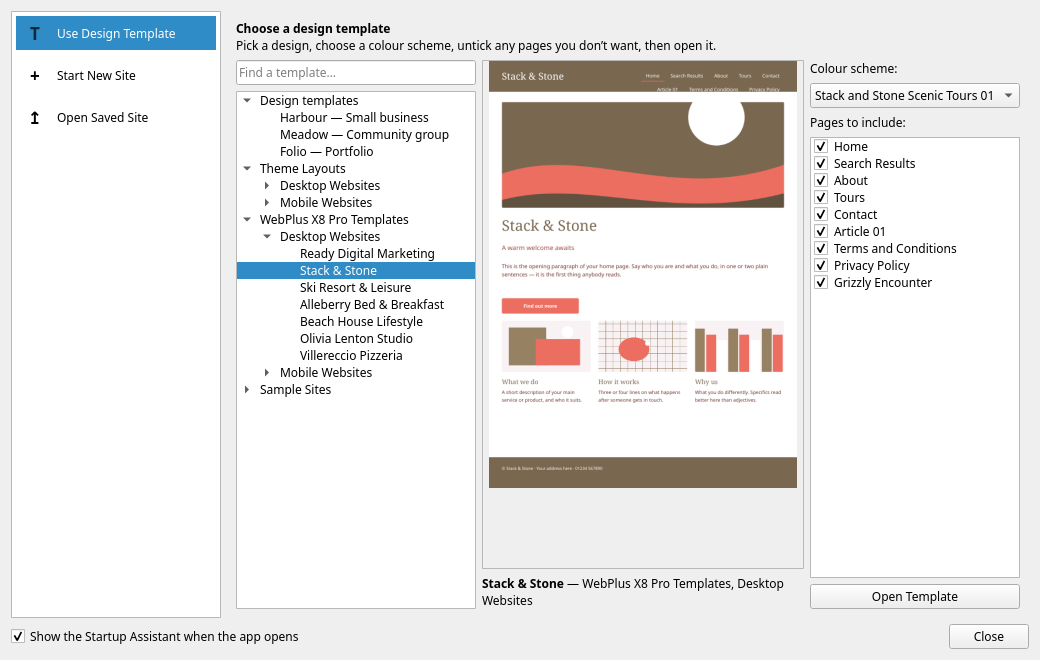
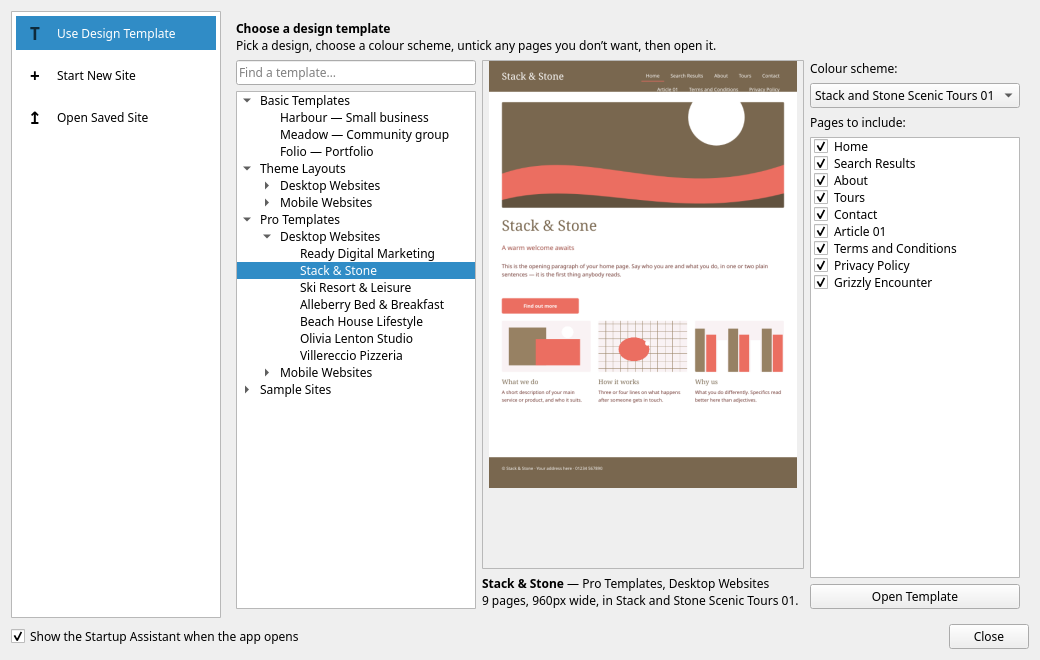
WEBcreator 1.7 — Basic Templates, Pro Templates, and the WebPlus command drops "Serif"
In the Startup Assistant's file list:

* "Design templates" is now **Basic Templates**;
* "WebPlus X8 Pro Templates" is now **Pro Templates**.

The catalogue still records the category name the disc used — the short name
is a display label (`CATEGORY_LABELS`), so the mined facts stay as mined and
the tooltip and caption use the same label as the tree.

The command that opens a .wpp is now "Open WebPlus Site…" everywhere it is
seen: the Startup Assistant button, File ▸ Open &WebPlus Site…, the file
dialog and its filter, and every message box title. The Serif-for-Linux
reader keeps its name, because that is what it is called.

Site rebuilt: the section heading and the chooser screenshot follow. All 92
template renders came out byte-identical, so no preview changed.

Changed region(s): [[0.4615, 0.8788, 0.7692, 0.9394], [0.2462, 0.303, 0.3692, 0.3636], [0.2462, 0.1212, 0.3385, 0.1818]]

diff --git a/docs/webcreator.html b/docs/webcreator.html
@@ -57,7 +57,7 @@ part that was worth recreating; the drawing is ours.</p>
 
 <div class="filter"><input id="q" type="search" placeholder="Filter 92 templates by name, page or colour scheme&hellip;" autocomplete="off"></div>
 <p class="none" id="none">Nothing matches that.</p>
-<h2 data-section="ours">Design templates <span class="mute small">(3)</span></h2><p class="mute small" data-section="ours">Three originals that ship with the app &mdash; a small business, a community group and a portfolio.</p><div class="grid" id="g-ours"><div class="tile" data-section="ours" data-find="harbour small business  home about us services contact">
+<h2 data-section="ours">Basic Templates <span class="mute small">(3)</span></h2><p class="mute small" data-section="ours">Three originals that ship with the app &mdash; a small business, a community group and a portfolio.</p><div class="grid" id="g-ours"><div class="tile" data-section="ours" data-find="harbour small business  home about us services contact">
 <img src="previews/ours-harbour.jpg" alt="Harbour home page" loading="lazy">
 <div class="body"><div class="name">Harbour</div>
 <div class="meta">Small business</div>
@@ -640,7 +640,7 @@ part that was worth recreating; the drawing is ours.</p>
 
 <footer>Built from the source in
 <a href="https://github.com/janszafranski/just-a-collection-of-apps">janszafranski/just-a-collection-of-apps</a>
-on 2026-11-11. Every template picture on this site is rendered
+on 2026-11-12. Every template picture on this site is rendered
 by the app itself.</footer>
 </div>
 </html>

diff --git a/docs/index.html b/docs/index.html
@@ -62,7 +62,7 @@ has an <code>uninstall.sh</code> beside its installer.</p>
 
 <footer>Built from the source in
 <a href="https://github.com/janszafranski/just-a-collection-of-apps">janszafranski/just-a-collection-of-apps</a>
-on 2026-11-11. Every template picture on this site is rendered
+on 2026-11-12. Every template picture on this site is rendered
 by the app itself.</footer>
 </div>
 </html>

diff --git a/apps/webcreator/webcreator.py b/apps/webcreator/webcreator.py
@@ -32,7 +32,7 @@ except ImportError:
 APP = "just a... WEBcreator"
 ORG = "justawebcreator"
 EXT = ".webc"
-VERSION = "1.6"
+VERSION = "1.7"
 
 # Where updates come from: a public GitHub repository holding a copy of this
 # file. UPDATE_PATH is where in that repository it sits — the top level if the
@@ -373,6 +373,13 @@ def serif_tree(chooser_only=True):
             surfaces.append((surf, []))
         surfaces[-1][1].append(row)
     return out
+
+#: What a catalogue category is called in the file list. The catalogue keeps
+#: the name the disc used; the chooser shows the short one.
+CATEGORY_LABELS = {'WebPlus X8 Pro Templates': 'Pro Templates'}
+
+def category_label(cat):
+    return CATEGORY_LABELS.get(cat, cat)
 
 def serif_row(key):
     return next((r for r in serif_catalogue().get('templates', []) if r.get('key') == key), None)
@@ -2959,8 +2966,8 @@ class StartupAssistant(QDialog):
         b1 = QPushButton('Open Selected'); b1.clicked.connect(lambda: self.open_recent(self.rlist.currentItem())); bh.addWidget(b1)
         b2 = QPushButton(ticon(['document-open-folder', 'folder-open'], ''), 'Browse…'); b2.clicked.connect(self.browse); bh.addWidget(b2)
         b3 = QPushButton(ticon(['document-import'], ''), 'Import Website Folder…'); b3.clicked.connect(self.import_site); bh.addWidget(b3)
-        b4 = QPushButton(ticon(['document-open', 'document-import'], ''), 'Open Serif WebPlus Site…')
-        b4.setToolTip('Open a Serif WebPlus .wpp publication as an editable site'); b4.clicked.connect(self.open_wpp)
+        b4 = QPushButton(ticon(['document-open', 'document-import'], ''), 'Open WebPlus Site…')
+        b4.setToolTip('Open a WebPlus .wpp publication as an editable site'); b4.clicked.connect(self.open_wpp)
         bh.addWidget(b4); bh.addStretch()
         self.stack.addWidget(op)
 
@@ -2989,13 +2996,13 @@ class StartupAssistant(QDialog):
     def build_template_tree(self):
         """The left-hand pane: our own designs, then Serif's own tree."""
         self.ttree.clear()
-        ours = QTreeWidgetItem(self.ttree, ['Design templates'])
+        ours = QTreeWidgetItem(self.ttree, ['Basic Templates'])
         for i, (name, kind, _fn) in enumerate(TEMPLATES):
             leaf = QTreeWidgetItem(ours, [f'{name} — {kind}'])
             leaf.setData(0, Qt.UserRole, ('ours', i))
         ours.setExpanded(True)
         for category, surfaces in serif_tree(chooser_only=False):
-            node = QTreeWidgetItem(self.ttree, [category])
+            node = QTreeWidgetItem(self.ttree, [category_label(category)])
             if not any(r.get('in_chooser') for _s, rows in surfaces for r in rows):
                 node.setToolTip(0, 'Sample documents. Serif catalogued these but '
                                    'never offered them as something to start from.')
@@ -3004,7 +3011,7 @@ class StartupAssistant(QDialog):
                 for r in rows:
                     leaf = QTreeWidgetItem(under, [r['name']])
                     leaf.setData(0, Qt.UserRole, ('serif', r['key']))
-                    leaf.setToolTip(0, f"{len(r['pages'])} pages · {r['category']}"
+                    leaf.setToolTip(0, f"{len(r['pages'])} pages · {category_label(r['category'])}"
                                        + (f" · {r['surface']}" if r['surface'] else ''))
             node.setExpanded(category == 'Theme Layouts')
         first = ours.child(0)
@@ -3067,7 +3074,7 @@ class StartupAssistant(QDialog):
         if what == 'serif':
             r = serif_row(which)
             self.tcap.setText(
-                f"<b>{H.escape(r['name'])}</b> — {H.escape(r['category'])}, "
+                f"<b>{H.escape(r['name'])}</b> — {H.escape(category_label(r['category']))}, "
                 f"{H.escape(r['surface'])}<br>{len(r['pages'])} pages, "
                 f"{s['width']}px wide, in {H.escape(scheme or '')}.")
         else:
@@ -3145,8 +3152,8 @@ class StartupAssistant(QDialog):
         root = self.win.webplus_root()
         if not root: return
         last = self.win.settings.value('wppDir', os.path.expanduser('~'))
-        path, _ = QFileDialog.getOpenFileName(self, 'Open Serif WebPlus Site', last,
-                                              f'Serif WebPlus publications (*{WPP_EXT});;All files (*)')
+        path, _ = QFileDialog.getOpenFileName(self, 'Open WebPlus Site', last,
+                                              f'WebPlus publications (*{WPP_EXT});;All files (*)')
         if not path: return
         self.win.settings.setValue('wppDir', os.path.dirname(path))
         self.result_webplus = (path, root); self.accept()
@@ -3322,9 +3329,9 @@ class MainWindow(QMainWindow):
         )
         self.a['delete'].setIconText('Delete')
         self.a['import'] = self.act('&Import Website Folder…', self.import_folder, 'Ctrl+Shift+I', ['document-import', 'folder-download'])
-        self.a['openwpp'] = self.act('Open Serif &WebPlus Site…', self.open_webplus, 'Ctrl+Shift+O',
+        self.a['openwpp'] = self.act('Open &WebPlus Site…', self.open_webplus, 'Ctrl+Shift+O',
                                      ['document-open', 'document-import'],
-                                     tip='Open a Serif WebPlus .wpp publication as an editable site')
+                                     tip='Open a WebPlus .wpp publication as an editable site')
         del self.a['import_']
         self.a['rulers'].setChecked(self.settings.value('rulers', True, type=bool))
         self.a['grid'].setChecked(self.show_grid); self.a['snap'].setChecked(self.snap_grid)
@@ -4840,7 +4847,7 @@ class MainWindow(QMainWindow):
         root = wpp_reader_root(self.settings.value('serifRoot', '') or None)
         if root or not ask: return root
         QMessageBox.information(
-            self, 'Open Serif WebPlus Site',
+            self, 'Open WebPlus Site',
             'Reading a WebPlus .wpp needs the Serif-for-Linux reader, which this app '
             "could not find.\n\nChoose the folder of the serif-linux checkout — the one "
             'that holds a “serif” folder with webplus.py in it.')
@@ -4849,7 +4856,7 @@ class MainWindow(QMainWindow):
         if not folder: return None
         root = wpp_reader_root(folder, only_hint=True)
         if not root:
-            QMessageBox.warning(self, 'Open Serif WebPlus Site',
+            QMessageBox.warning(self, 'Open WebPlus Site',
                                 f'{folder} does not hold serif/webplus.py, so it cannot read a .wpp.')
             return None
         self.settings.setValue('serifRoot', root)
@@ -4860,8 +4867,8 @@ class MainWindow(QMainWindow):
         root = self.webplus_root()
         if not root: return
         last = self.settings.value('wppDir', os.path.expanduser('~'))
-        path, _ = QFileDialog.getOpenFileName(self, 'Open Serif WebPlus Site', last,
-                                              f'Serif WebPlus publications (*{WPP_EXT});;All files (*)')
+        path, _ = QFileDialog.getOpenFileName(self, 'Open WebPlus Site', last,
+                                              f'WebPlus publications (*{WPP_EXT});;All files (*)')
         if not path: return
         self.settings.setValue('wppDir', os.path.dirname(path))
         return self.load_webplus(path, root)
@@ -4871,7 +4878,7 @@ class MainWindow(QMainWindow):
         if not root: return False
         from PySide6.QtWidgets import QProgressDialog
         pd = QProgressDialog('Reading the publication…', 'Cancel', 0, 100, self)
-        pd.setWindowTitle('Open Serif WebPlus Site'); pd.setMinimumDuration(0)
+        pd.setWindowTitle('Open WebPlus Site'); pd.setMinimumDuration(0)
         pd.setWindowModality(Qt.WindowModal)
         def progress(i, n, msg):
             pd.setMaximum(n); pd.setValue(i); pd.setLabelText(msg); QApplication.processEvents()
@@ -4880,7 +4887,7 @@ class MainWindow(QMainWindow):
             site = import_webplus_file(path, root, progress)
         except Exception as ex:
             pd.close()
-            QMessageBox.warning(self, 'Open Serif WebPlus Site',
+            QMessageBox.warning(self, 'Open WebPlus Site',
                                 f"Couldn't open {os.path.basename(path)}.\n\n{ex}")
             return False
         pd.close()
@@ -4888,7 +4895,7 @@ class MainWindow(QMainWindow):
         site.pop('_wpp_source', None)
         self.set_site(site); self.dirty = True; self.update_title()
         self.settings.setValue('serifRoot', root)
-        QMessageBox.information(self, 'Open Serif WebPlus Site', wpp_summary(site, path, notes))
+        QMessageBox.information(self, 'Open WebPlus Site', wpp_summary(site, path, notes))
         return True
 
     def load_path(self, path):

diff --git a/apps/webcreator/test_webplus_import.py b/apps/webcreator/test_webplus_import.py
@@ -1,4 +1,4 @@
-"""Tests for File ▸ Open Serif WebPlus Site…
+"""Tests for File ▸ Open WebPlus Site…
 
     cd ~/.local/share/webcreator && python3 -m unittest -v test_webplus_import
 
@@ -301,8 +301,8 @@ class WhereTheCommandIs(unittest.TestCase):
         win = W.MainWindow()
         try:
             items = [a.text() for a in win.menuBar().actions()[0].menu().actions()]
-            self.assertIn('Open Serif &WebPlus Site…', items)
-            self.assertLess(items.index('Open Serif &WebPlus Site…'), items.index('&Save'))
+            self.assertIn('Open &WebPlus Site…', items)
+            self.assertLess(items.index('Open &WebPlus Site…'), items.index('&Save'))
             self.assertTrue(win.a['openwpp'].isEnabled())
         finally:
             win.close()
@@ -313,7 +313,7 @@ class WhereTheCommandIs(unittest.TestCase):
             from PySide6.QtWidgets import QPushButton
             dlg = W.StartupAssistant(win)
             labels = [b.text() for b in dlg.findChildren(QPushButton)]
-            self.assertIn('Open Serif WebPlus Site…', labels)
+            self.assertIn('Open WebPlus Site…', labels)
             dlg.deleteLater()
         finally:
             win.close()

diff --git a/tools/build-site.py b/tools/build-site.py
@@ -210,7 +210,7 @@ has an <code>uninstall.sh</code> beside its installer.</p>
 
 
 SECTIONS = (
-    ("ours", "Design templates", "Three originals that ship with the app &mdash; "
+    ("ours", "Basic Templates", "Three originals that ship with the app &mdash; "
      "a small business, a community group and a portfolio."),
     ("theme-desktop", "Theme Layouts &mdash; Desktop", "Thirty-two starting points: "
      "a full page tree, three colour schemes of their own, and room to work."),

diff --git a/apps/webcreator/README.md b/apps/webcreator/README.md
@@ -41,7 +41,7 @@ saved settings. Neither touches a site you made.
 | **Master pages** | Create, edit, and assign per page, so headers and menus are written once |
 | **Objects** | Text, pictures, shapes, buttons, navigation bars, tables, forms, embedded HTML — drag, resize, rotate, align |
 | **Import** | **File ▸ Import Website Folder…** reads a folder of HTML back into an editable site |
-| **Open a WebPlus site** | **File ▸ Open Serif WebPlus Site…** (`Ctrl+Shift+O`) opens a Serif WebPlus `.wpp` — see below |
+| **Open a WebPlus site** | **File ▸ Open WebPlus Site…** (`Ctrl+Shift+O`) opens a Serif WebPlus `.wpp` — see below |
 | **Publish** | Plain HTML + assets into a folder, previewable in your browser first |
 | **Saves as** | `.webc`, a single file, registered as a file type so double-clicking one opens it |
 
